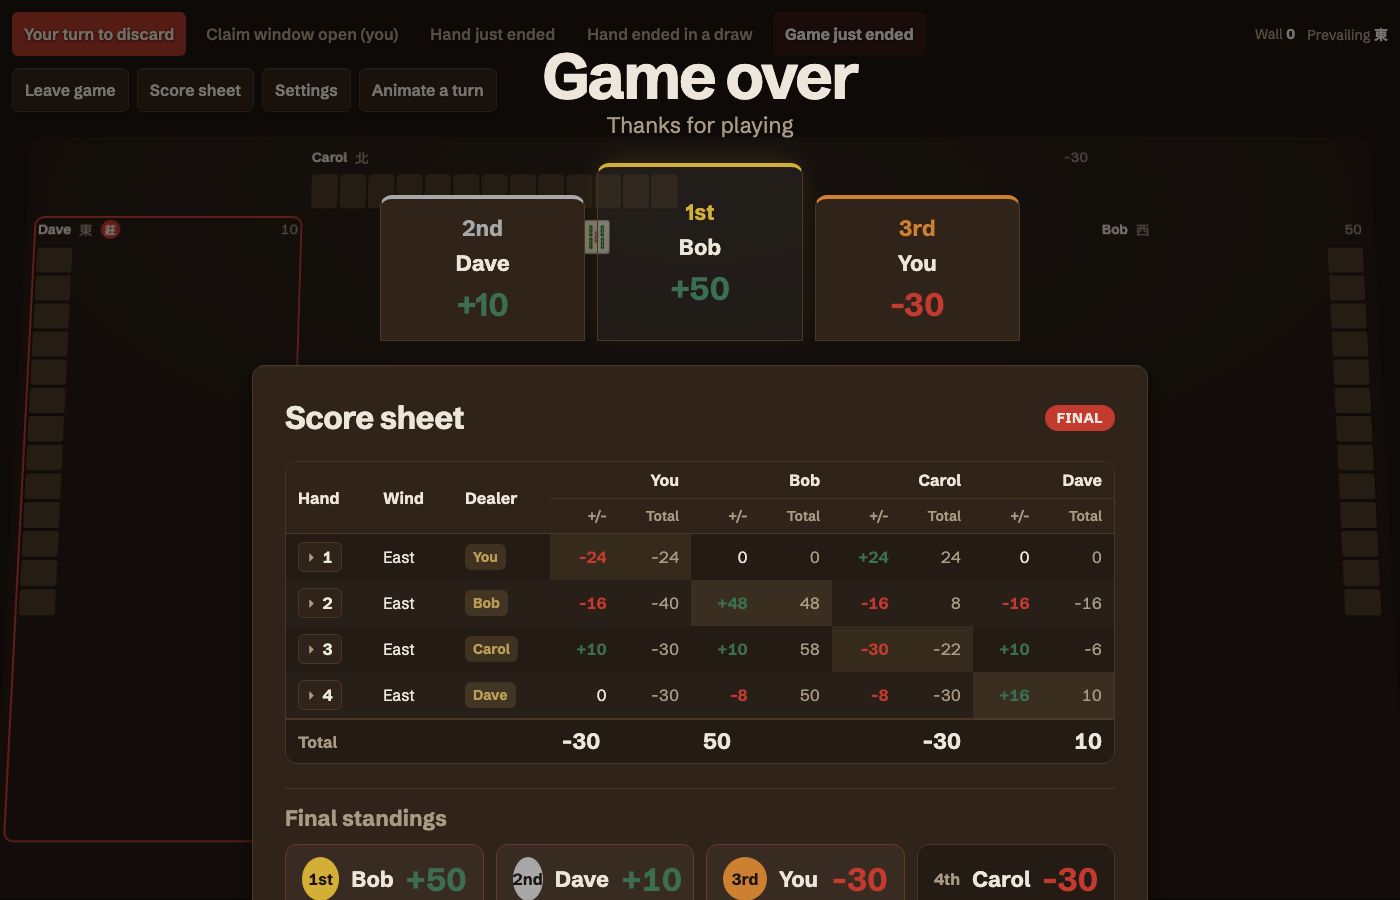
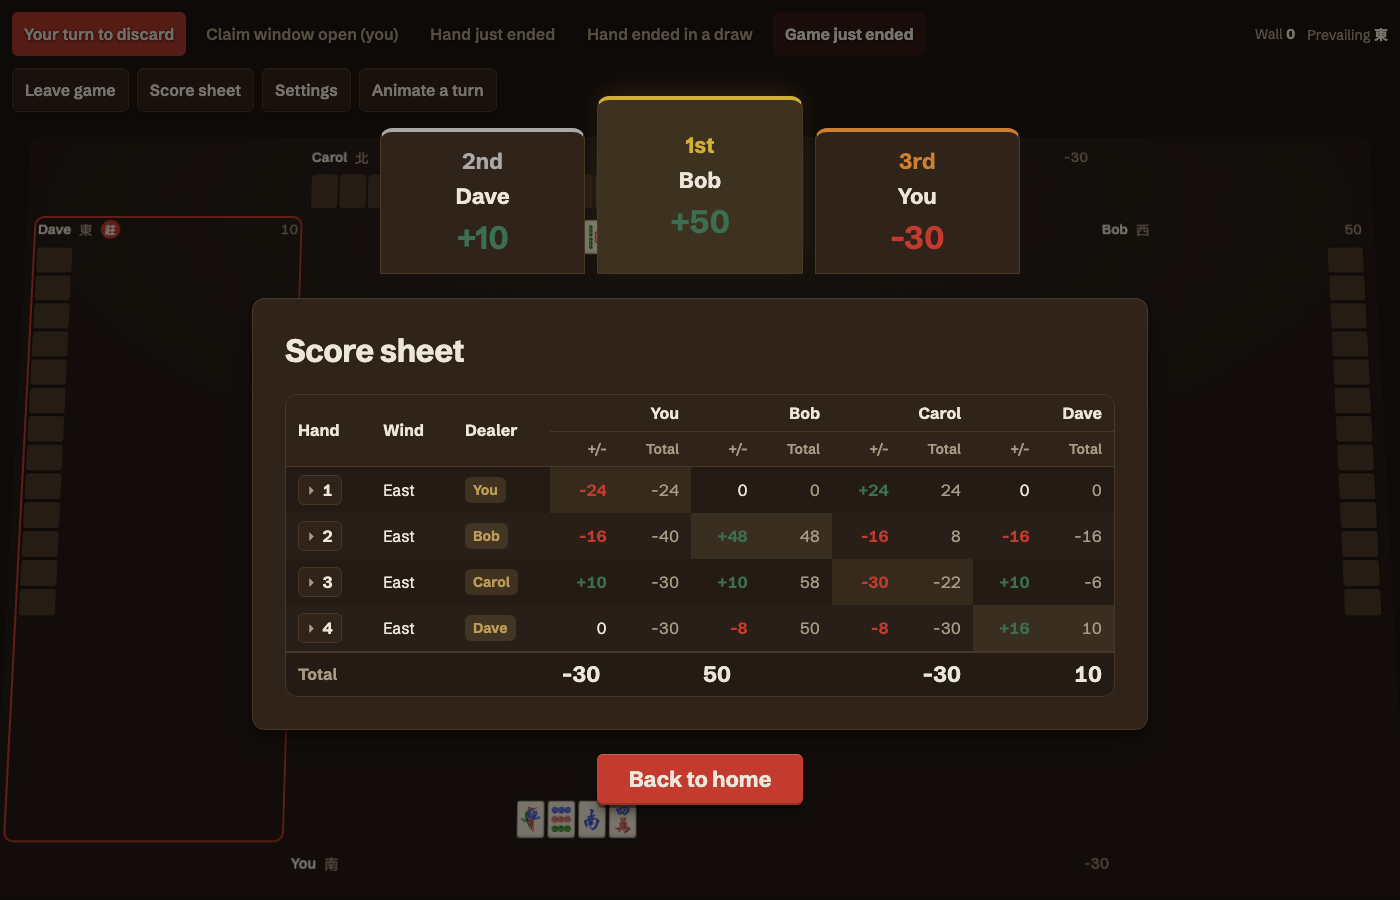
feat(web): streamline game-end screen
- Remove the "Game over" title and subtitle from GameEndScreen.
- Omit final-standings cards inside the game-end ScoreSheet; the podium
  now carries all placement information.
- Fill the first-place podium bar with a solid gold-tinted color.
- Update table e2e assertions and README screenshot caption.
- Regenerate game-end screenshot.

diff --git a/web/src/lib/ui/GameEndScreen.svelte b/web/src/lib/ui/GameEndScreen.svelte
@@ -36,12 +36,7 @@
 	}
 </script>
 
-<section class="game-end" aria-labelledby="game-end-heading">
-	<header class="game-end-header">
-		<h1 id="game-end-heading">Game over</h1>
-		<p class="game-end-subtitle">Thanks for playing</p>
-	</header>
-
+<section class="game-end" aria-label="Game end summary">
 	<div class="podium">
 		{#each standings.slice(0, 3) as standing, index (standing.seat)}
 			{@const rank = index}
@@ -63,7 +58,7 @@
 		{/each}
 	</div>
 
-	<ScoreSheet {seats} {totals} {hands} {standings} />
+	<ScoreSheet {seats} {totals} {hands} />
 	<a class="home-link" href="/">Back to home</a>
 </section>
 
@@ -81,28 +76,6 @@
 		@include layout.tablet-up {
 			padding: var(--space-6);
 		}
-	}
-
-	.game-end-header {
-		display: flex;
-		flex-direction: column;
-		align-items: center;
-		gap: var(--space-1);
-		text-align: center;
-	}
-
-	h1 {
-		margin: 0;
-		font-size: clamp(2.5rem, 8vw, 4rem);
-		font-weight: 900;
-		letter-spacing: -0.04em;
-		line-height: 1;
-	}
-
-	.game-end-subtitle {
-		margin: 0;
-		color: var(--color-text-muted);
-		font-size: var(--font-size-lg);
 	}
 
 	.podium {
@@ -140,7 +113,7 @@
 	}
 
 	.podium-step--first {
-		background: rgb(255 255 255 / 0.05);
+		background: #3d3120;
 		box-shadow: 0 -8px 24px -4px rgb(212 175 55 / 0.15);
 	}
 

diff --git a/web/src/routes/table/[id]/table.e2e.ts b/web/src/routes/table/[id]/table.e2e.ts
@@ -93,12 +93,11 @@ test('switching to the game-ended scenario auto-shows the game-end summary, not 
 	await expect(page.getByTestId('faan-overlay')).toHaveCount(0);
 	const overlay = page.getByTestId('game-end-overlay');
 	await expect(overlay).toBeVisible();
-	await expect(overlay.getByRole('heading', { name: 'Game over' })).toBeVisible();
 	await expect(overlay.getByRole('link', { name: 'Back to home' })).toHaveAttribute('href', '/');
 
-	// standings: 4 rounds, ranked by final total (mock-game-state.ts's `gameJustEnded.gameEnd`).
+	// score sheet shows all 4 rounds; final standings cards are omitted in favor of the podium.
 	await expect(overlay.locator('.score-sheet tbody tr')).toHaveCount(4);
-	await expect(overlay.locator('.standings')).toContainText('1st');
+	await expect(overlay.locator('.standings')).toHaveCount(0);
 
 	// clicking into a past round (hand 2, a self-drawn All Pungs win) reveals that round's own
 	// winning hand, not just the most recent one -- the actual gap this sub-task closed

diff --git a/README.md b/README.md
@@ -28,9 +28,9 @@ wiring"). Regenerate with `pnpm --dir web run screenshots` after any visible fro
 | ![Lobby](docs/screenshots/lobby.png) Lobby (`/`) — create a table, join one, or play solo vs bots, over a scrolling tile-mural canvas background | ![Lobby, create-table dialog](docs/screenshots/lobby-create-dialog.png) Lobby — create-table dialog: named rules presets or a custom ruleset (`POST /tables`, `docs/02-protocol.md §10`) |
 | ![Tables](docs/screenshots/tables.png) Tables (`/tables`) — join by code, or sit down / watch from the grid | ![Table, your turn](docs/screenshots/table-your-turn.png) Table — your turn to discard |
 | ![Table, claim window](docs/screenshots/table-claim-window.png) Table — claim window open | ![Table, hand ended](docs/screenshots/table-hand-ended.png) Table — hand ended, faan breakdown |
-| ![Table, hand ended in a draw](docs/screenshots/table-hand-ended-draw.png) Table — hand ended, exhaustive draw | ![Table, game ended](docs/screenshots/table-game-ended.png) Table — game ended, score summary with standings |
-| ![Table, connecting](docs/screenshots/table-pregame-connecting.png) Table — connecting | ![Table, take a seat](docs/screenshots/table-pregame-join.png) Table — take a seat |
-| ![Table, waiting for players](docs/screenshots/table-pregame-waiting.png) Table — seated, waiting for players | |
+| ![Table, hand ended in a draw](docs/screenshots/table-hand-ended-draw.png) Table — hand ended, exhaustive draw | ![Table, game ended](docs/screenshots/table-game-ended.png) Table — game ended, score summary with winner podium |
+| ![Table, settings](docs/screenshots/table-settings.png) Table — settings panel | ![Table, connecting](docs/screenshots/table-pregame-connecting.png) Table — connecting |
+| ![Table, take a seat](docs/screenshots/table-pregame-join.png) Table — take a seat | ![Table, waiting for players](docs/screenshots/table-pregame-waiting.png) Table — seated, waiting for players |
 
 ## Planning docs
 
